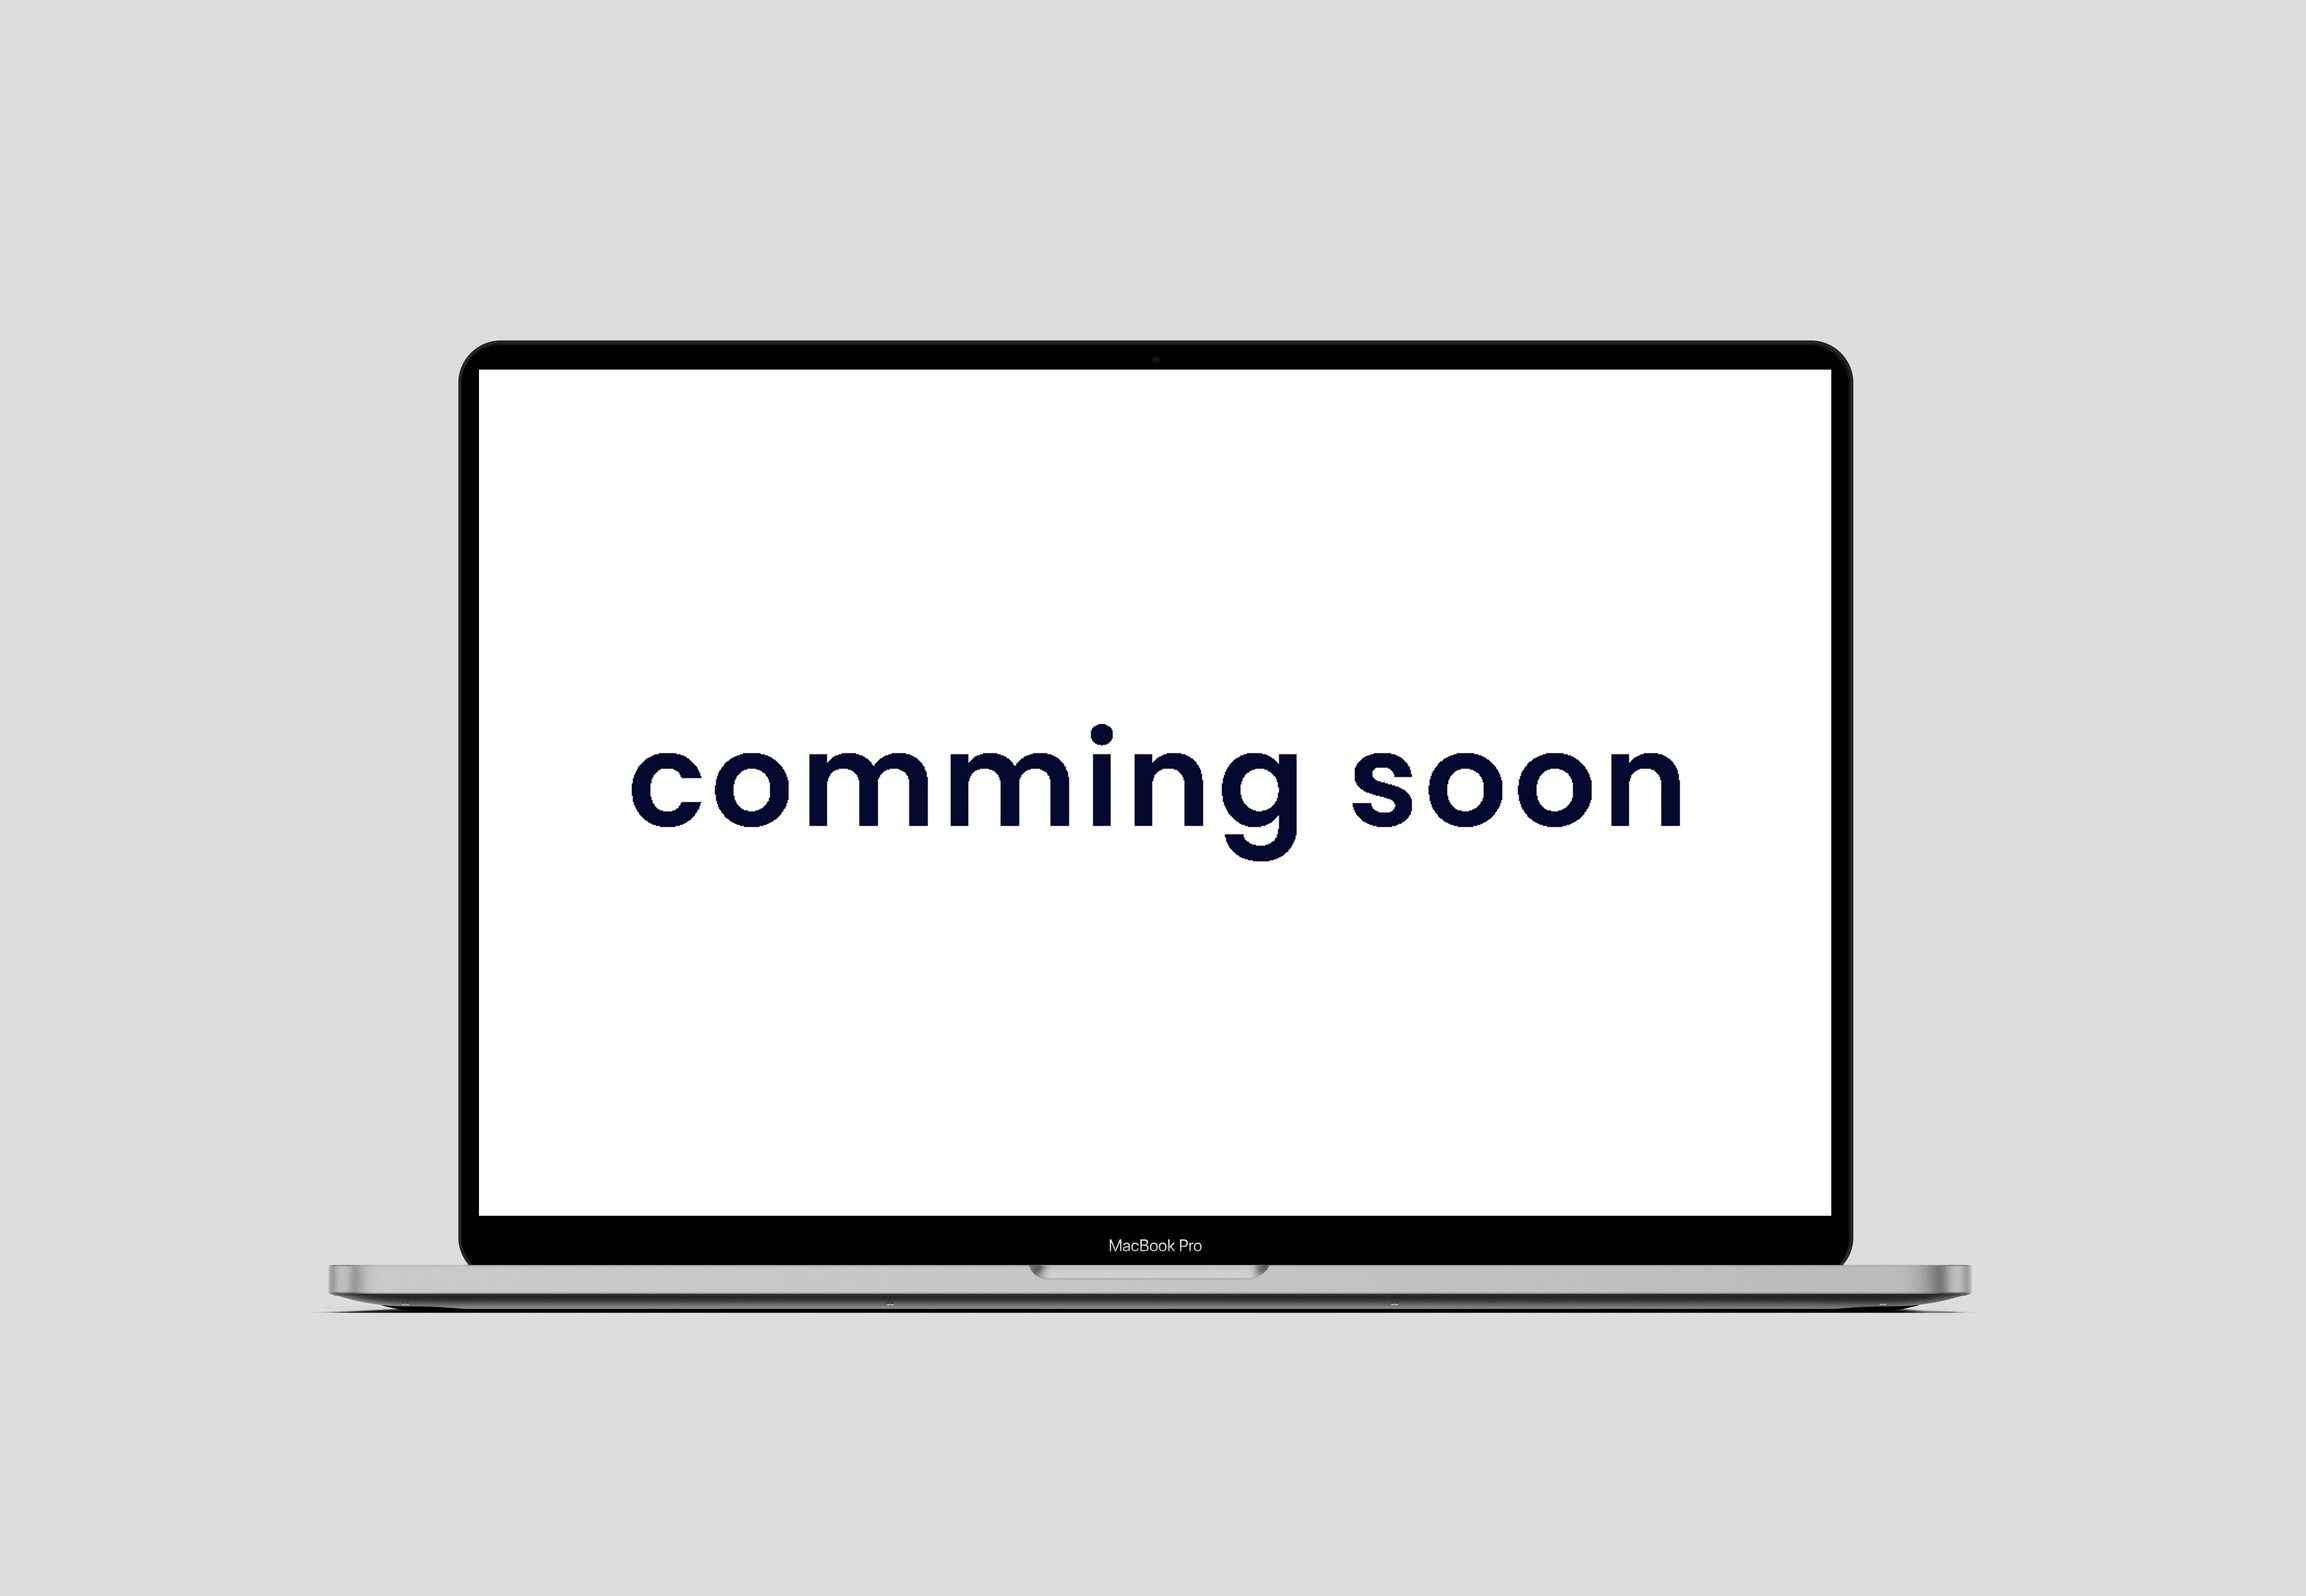
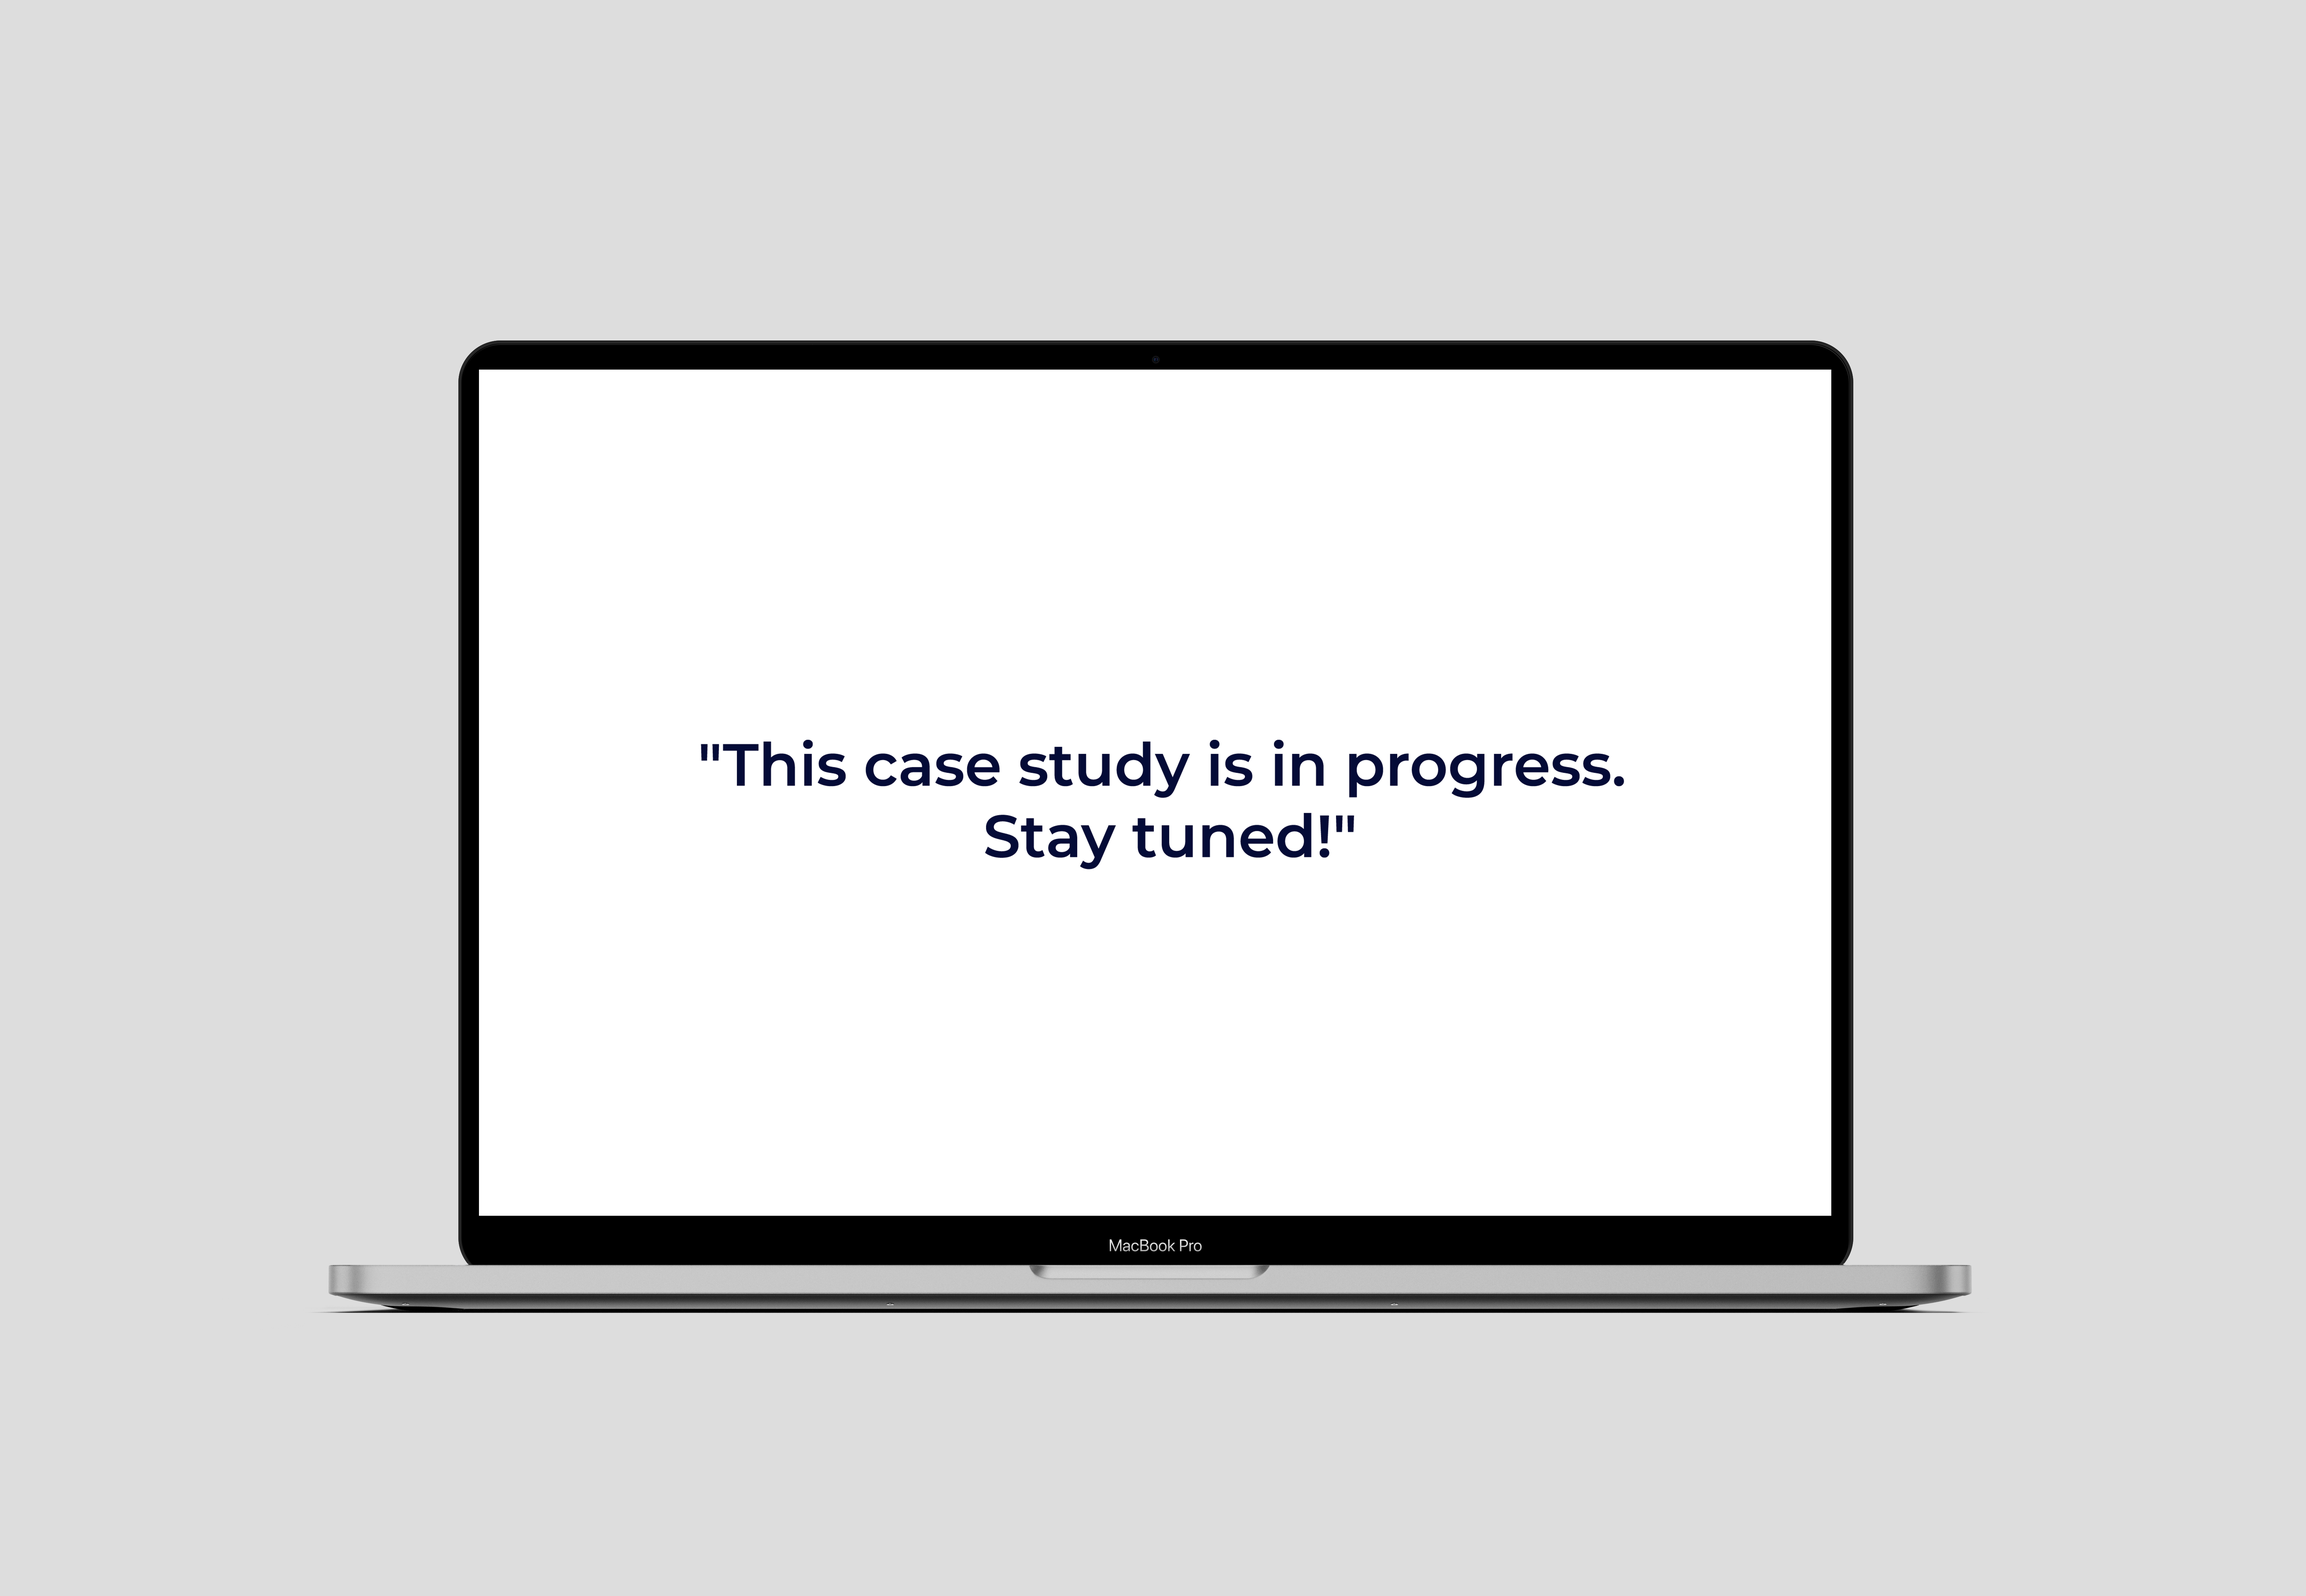
Updated case study link and image

Changed region(s): [[0.2498, 0.4356, 0.7495, 0.56]]

diff --git a/index.html b/index.html
@@ -143,8 +143,8 @@
             </div>
             <div class="col-12 col-md-7 case-study-content">
                 <h3> <b>Healing Hand Appointment System </b></h3>
-                <p>Healing Hand Appointment System is a scalable and user-focused healthcare solution designed to streamline medical appointment scheduling. This case study showcases how product vision and development execution came together to solve real-world challenges in the healthcare industry.</p>
-                <a href="pdf/healing-hand-pm.pdf" download class="btn btn-custom">Download</a>
+                <p>Healing Hand Appointment System is a scalable and user-focused healthcare solution designed to streamline medical appointment scheduling. This case study showcases how product vision and development execution came together to solve real-world challenges in the healthcare industry. "For the best viewing experience, please download and view on a larger screen."</p>
+                <a href="pdf/healing-hand-pm.pdf" download class="btn btn-custom">Download Case Study</a>
             </div>
         </div>
     </div>
@@ -156,8 +156,8 @@
             </div>
             <div class="col-12 col-md-7 case-study-content">
                 <h3> <b>Momentum CRM </b></h3>
-                <p>Momentum CRM is a tailored real estate solution designed to optimize client relationships and site visits, ensuring a seamless experience for both sales teams and potential buyers. Built with a strategic product vision and development execution, this case study showcases how we transformed complex real estate workflows into an intuitive, data-driven platform.</p>
-                <a href="pdf/crm-pm.pdf" download class="btn btn-custom">Download</a>
+                <p>Momentum CRM is a tailored real estate solution designed to optimize client relationships and site visits, ensuring a seamless experience for both sales teams and potential buyers. Built with a strategic product vision and development execution, this case study showcases how we transformed complex real estate workflows into an intuitive, data-driven platform. "For the best viewing experience, please download and view on a larger screen."</p>
+                <a href="pdf/crm-pm.pdf" download class="btn btn-custom">Download Case Study</a>
             </div>
         </div>
     </div>
@@ -172,7 +172,7 @@
                 <p> This case study is currently in progress as we continue refining and documenting key aspects of the project. From initial research to execution, we are actively working on shaping a comprehensive case study that reflects the full journey.
 
                     Stay tuned—the complete case study will be available soon!</p>
-                <a href="pdf/Equity Eagle case study.pdf" download class="btn btn-custom">Download</a>
+                <a href="pdf/Equity Eagle case study.pdf" download class="btn btn-custom">Download Case Study</a>
             </div>
         </div>
     </div>
